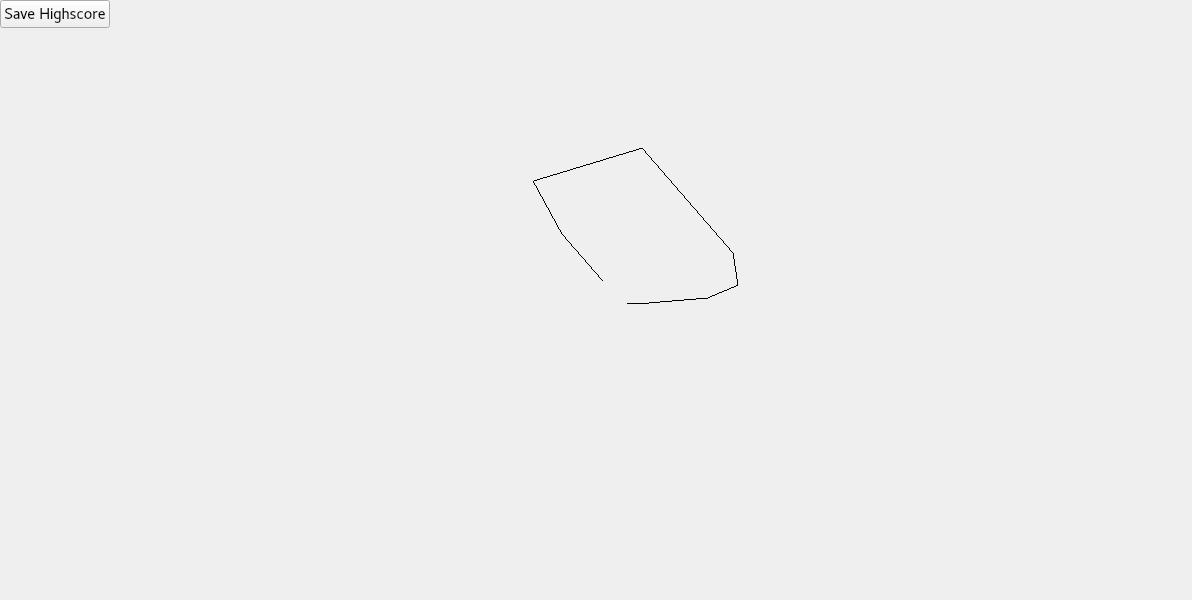
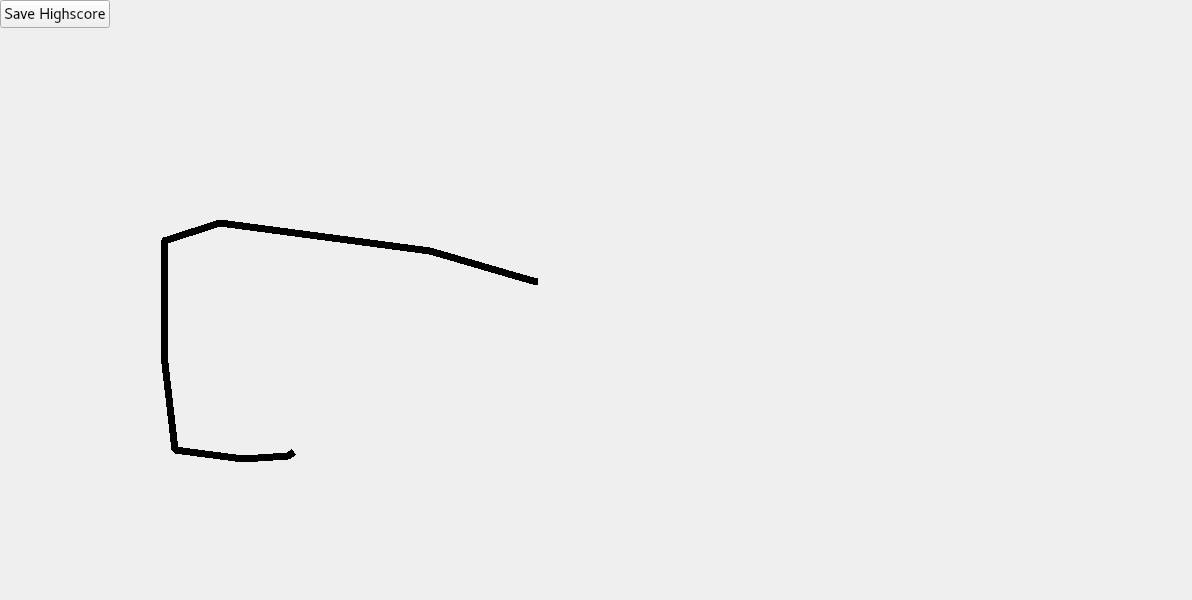
highscore.py adjustments

Changed region(s): [[0.1552, 0.36, 0.4656, 0.48], [0.1242, 0.39, 0.1552, 0.75], [0.1552, 0.75, 0.2483, 0.78]]

diff --git a/highscore.py b/highscore.py
@@ -1,14 +1,9 @@
 from PyQt5 import QtWidgets, QtCore, QtGui
 from operator import itemgetter
-import sys
 
 
 # To call when Game is over
-from PyQt5.QtCore import QSize
-
-
 class HighscoreWidget(QtWidgets.QWidget):
-    # icon_size: QSize
     imagePath = "out.jpg"
 
     def __init__(self, size, devices, parent=None):
@@ -22,8 +17,6 @@ class HighscoreWidget(QtWidgets.QWidget):
         # TODO: Score from game.py
         self.new_score = 1
         self.highscore_table = QtWidgets.QTableWidget(parent=self)
-
-        # Highscore list
         self.highscore_list = [[55, "Fabian"], [44, "Paul"], [66, "Thomas"], [44, "Paul"], [44, "Paul"], [44, "Paul"], [44, "Paul"], [44, "Paul"], [44, "Paul"], [44, "Paul"]]
 
         self.init_ui()
@@ -56,6 +49,7 @@ class HighscoreWidget(QtWidgets.QWidget):
             self.wm_two.register_confirm_callback(self.dw.save_highscore)
 
     def highscore_chart(self):
+        print('In Highscore Chart!')
         self.img = QtGui.QPixmap(self.imagePath)
         # TODO: Insert real score
         self.score_pair.append([555, self.img])
@@ -65,12 +59,10 @@ class HighscoreWidget(QtWidgets.QWidget):
             new_hs_list = self.set_highscores()
             self.draw_highscores(new_hs_list)
         else:
-            print('HS in Else')
             self.draw_highscores(self.highscore_list)
 
     # Appends new score to highscore list
     def set_highscores(self):
-        print('In set highscores')
         sorted_hs_list = sorted(self.highscore_list,
                                 key=itemgetter(0), reverse=True)
         if len(sorted_hs_list) == 10 and sorted_hs_list[-1][0] < self.score_pair[0][0]:
@@ -85,6 +77,7 @@ class HighscoreWidget(QtWidgets.QWidget):
         new_list = sorted(actual_list, key=itemgetter(0), reverse=True)
         self.highscore_table.setRowCount(10)
         self.highscore_table.setColumnCount(2)
+        self.highscore_table.setHorizontalHeaderLabels(['Name', 'Score'])
         i = 0
         for item in new_list:
             actual_score = item[0]
@@ -139,7 +132,6 @@ class DrawWidget(QtWidgets.QWidget):
         self.save_callback = callback
 
     def save_highscore(self):
-        print('In save_highscore_______')
         signature = QtWidgets.QWidget.grab(self)
         signature.save("out.jpg")
         if self.save_callback is not None:
@@ -159,6 +151,7 @@ class DrawWidget(QtWidgets.QWidget):
     def paintEvent(self, event):
         qp = QtGui.QPainter()
         qp.begin(self)
+        qp.setPen(QtGui.QPen(QtCore.Qt.black, 7, QtCore.Qt.SolidLine))
         qp.drawPath(self.path)
         qp.end()
 
@@ -197,9 +190,9 @@ class DrawWidget(QtWidgets.QWidget):
         self.positions = []
 
 
-class HighscoreHandler():
-    def __init__(self):
-        super(HighscoreHandler, self).__init__()
+# class HighscoreHandler():
+    # def __init__(self):
+       # super(HighscoreHandler, self).__init__()
         # self.hs = HighscoreWidget(43)
-        self.dw = DrawWidget()
+        # self.dw = DrawWidget()
         # self.dw.set_callback(self.hs.highscore_chart)
